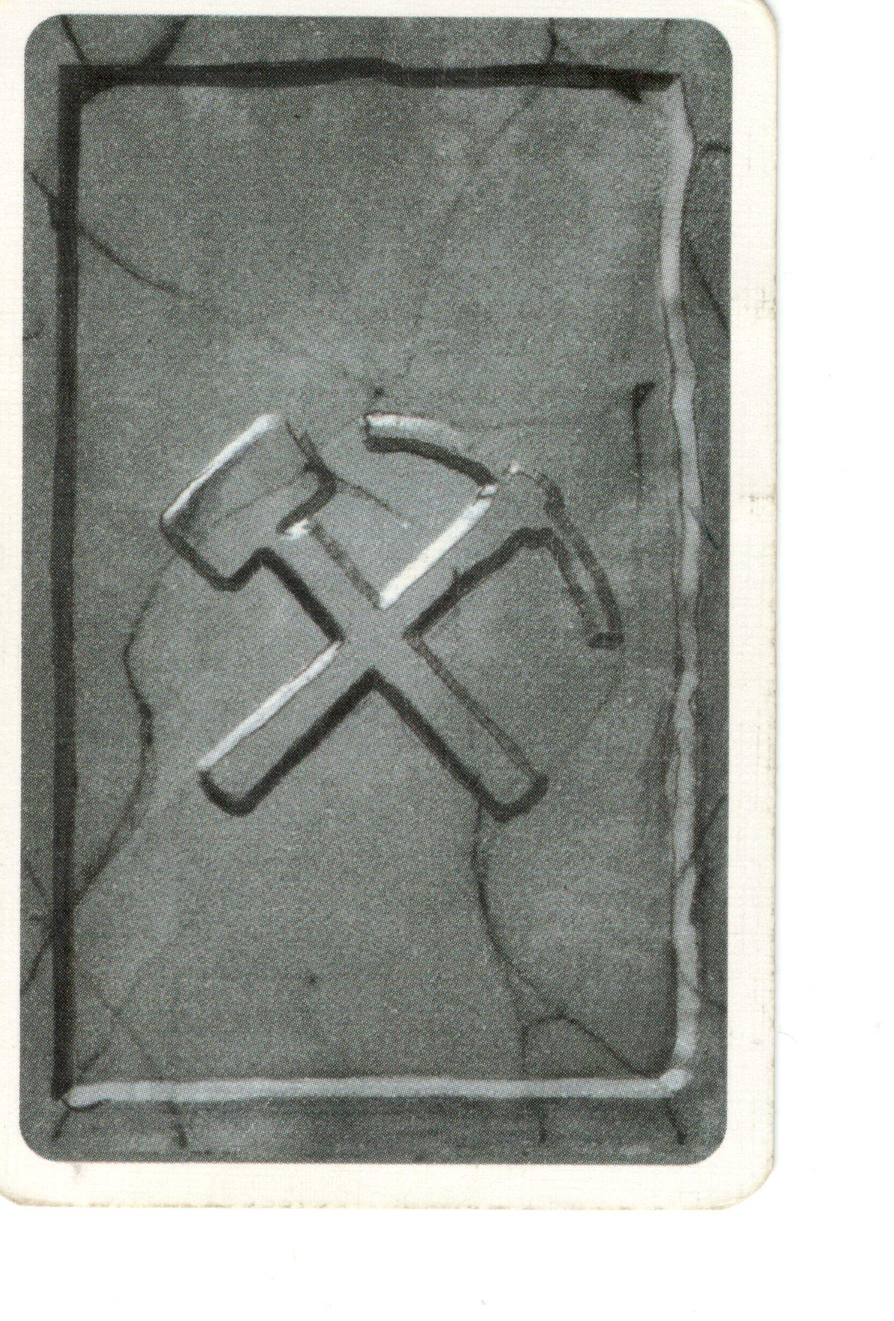
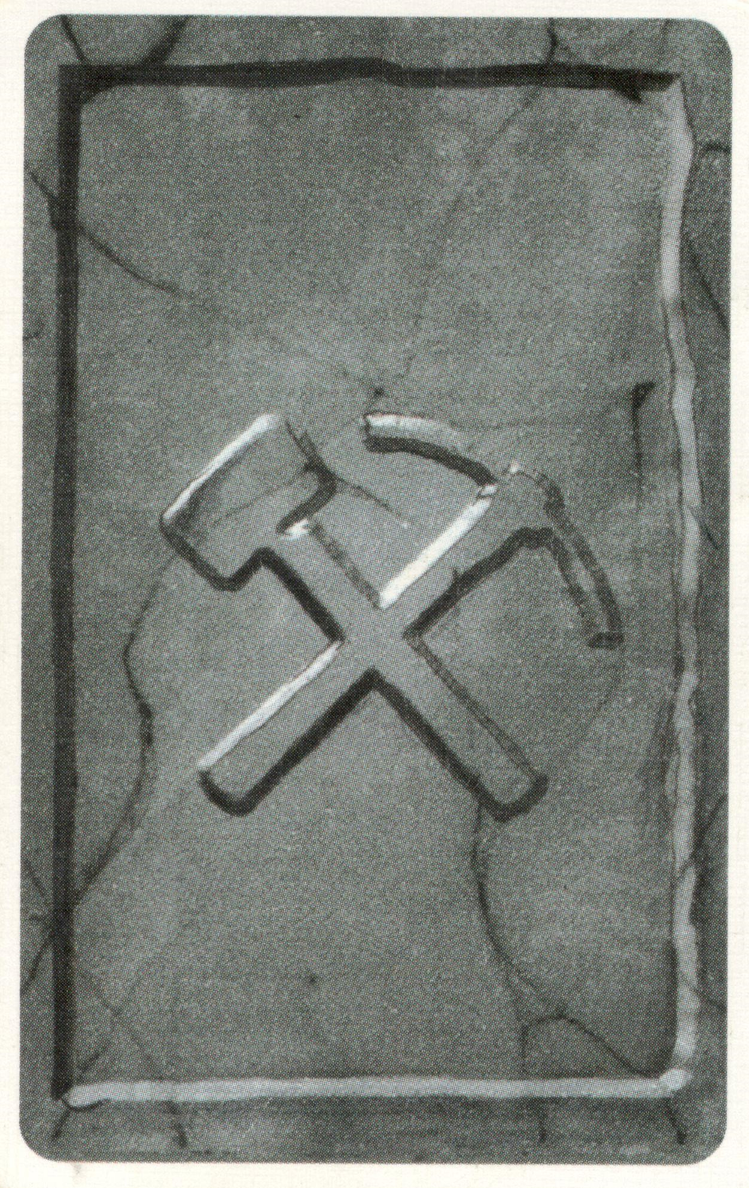
Agggiunte notazioni e ritagliato le immagini

diff --git a/View/Header/screens/gameScreen/Board/board.h b/View/Header/screens/gameScreen/Board/board.h
@@ -8,7 +8,7 @@
 #include "Entities/Header/cvector.h"
 #include "Model/Header/carta/card.h"
 #include "Model/Header/carta/blocco.h"
-
+#include "Model/Header/carta/tunnel.h"
 using std::vector;
 
 namespace view {
@@ -18,19 +18,20 @@ class Board : public QGraphicsItem, public QObject{
     Q_INTERFACES(QGraphicsItem)
 
 private:
-    QSize size; //Grandezza Board
+    /**
+     * @brief dimensione è al grandezza della board, si costruisce con QSize(Width,Height)
+     */
+    QSize dimensione;
     //Ok ora mi serve un vettore per ricordare dove sono le cose
-    vector <unique_ptr<Card>*> baseVector;
+    vector <unique_ptr<Card>*> celle;
     //Sperimentiamo con dei blocchi
-    vector <unique_ptr<Blocco>*> blocchi;
-    //Ci teniamo una carta in memoria quando la selezioniamo
     Card* selezione;
 
     void createBoard();
 
 public:
-    Board (const QSize &size, const vector <unique_ptr<Card>*> &baseVector, const vector <unique_ptr<Blocco>*> &blocco);
-    void paint(QPainter *painter, const QStyleOptionGraphicsItem *option, QWidget *widget) override;
+    Board (const QSize &size, const vector <unique_ptr<Card>*> &cells);
+    virtual void paint(QPainter *painter, const QStyleOptionGraphicsItem *option, QWidget *widget);
     void turn();
 public slots:
 

diff --git a/View/board.cpp b/View/board.cpp
@@ -1,0 +1,45 @@
+#include "View\Header\screens\gameScreen\Board\board.h"
+#include "Model/Header/carta/card.h"
+#include "Model/Header/carta/blocco.h"
+#include "Model/Header/carta/tunnel.h"
+
+#include <QGraphicsScene>
+
+using std::vector;
+
+namespace view {
+
+Board::Board(const QSize &size, const vector <unique_ptr<Card>*> &cells) :
+    dimensione(size),
+    celle(cells){
+
+    createBoard();
+}
+
+void Board::paint(QPainter *painter, const QStyleOptionGraphicsItem *option, QWidget *widget) {
+    Q_UNUSED(option);
+    Q_UNUSED(widget);
+    Q_UNUSED(painter);
+}
+/**
+ * @brief Board::createBoard il mio scopo è di creare un vettore che contenga inizio, i
+ * tre finali e le occasionali carte che piazzero'
+ */
+void Board::createBoard() {
+    int lunghezza = dimensione.width() * dimensione.height();
+    //incominciamo con l'allungare il vector "celle" creato nel .h
+    for (int i = 0; i<=lunghezza; i++){
+       unique_ptr<Card>* carta;
+       if (celle[i]!=NULL){
+           celle.push_back(carta);
+       }
+    }
+}
+/**
+ * @brief Board::tick la logica del tutto è integrata in tick
+ */
+void Board::turn(){
+
+}
+
+}

diff --git a/Controller/controller.cpp b/Controller/controller.cpp
@@ -1,19 +1,20 @@
-#include "Header/controller.h"
+
+#include "Header/controller.h"
 
 controller::Controller::Controller(QObject* parent): QObject(parent){
     //costruire controller
-    MainW = new MainWindow();
+    //MainW = new MainWindow();
 
     /*
      * -Vecchio modo connessione segnali, funziona ma se possibile da evitare
      * connect(MainW, SIGNAL(OpenSettingsRequest()), this, SLOT(openSettings()));
      * -nuova modalità connessione qt5, consigliata*/
-    connect(MainW, &MainWindow::OpenSettingsRequest, this, &Controller::openSettings);
+    //connect(MainW, &MainWindow::OpenSettingsRequest, this, &Controller::openSettings);
 }
 
-void controller::Controller::ShowMainWindow() const {MainW->show();}
+//void controller::Controller::ShowMainWindow() const {MainW->show();}
 
 
-void controller::Controller::openSettings(){
-    emit MainW->OpenSettingsWindow();
-}
+//void controller::Controller::openSettings(){
+    //emit MainW->OpenSettingsWindow();
+//}

diff --git a/View/Header/screens/gameScreen/gameScene.h b/View/Header/screens/gameScreen/gameScene.h
@@ -3,26 +3,33 @@
 
 #include <QGraphicsScene>
 #include <vector>
+
 #include "Model/Header/game.h"
 #include "View\Header\screens\gameScreen\Board\board.h"
 #include "View\Header\screens\gameScreen\mano.h"
+#include "Model\Header\game.h"
 
 namespace view {
 
 class GameScene : public QGraphicsScene {
   Q_OBJECT
 private:
+    const model::Game gioco;
+    /**
+     * @brief board oggetto principale
+     */
     Board* board;
+    /**
+     * @brief mano non troppo dissimile dalla board
+     */
     Mano* mano;
-    //InfoBox* stuff;
-    //IconButton* pauseButton;
     vector <unique_ptr<Card>*> baseVector;
 
 public:
     /**
      * @brief costruttore, niente di speciale
      */
-    GameScene();
+    GameScene(const model::Game& game);
 
 public slots:
     /**

diff --git a/View/Header/screens/gameScreen/Board/casella.h b/View/Header/screens/gameScreen/Board/casella.h
@@ -1,0 +1,26 @@
+#ifndef CASELLA_H_
+#define CASELLA_H_
+
+#include <QGraphicsItem>
+#include "Entities/Header/unique_ptr.h"
+#include "Entities/Header/cvector.h"
+#include "Model/Header/carta/card.h"
+
+namespace view {
+
+enum class TipoCasella {
+Incrocio,
+
+};
+
+class Casella : public QObject, public QGraphicsItem {
+    Q_OBJECT
+    Q_INTERFACES(QGraphicsItem)
+
+private:
+    tip
+}
+
+}
+#endif
+

diff --git a/Model/Header/carta/obstruction.h b/Model/Header/carta/obstruction.h
@@ -26,7 +26,7 @@ public:
 
     /*~Tunnel();
 
-    /**
+    / **
      * @brief operator = :operatore di assegnazione, usa metodo clone
      * @param t : carta tunnel passata per riferimento
      * @return : ritorna un riferimento a Tunnel

diff --git a/Model/Header/game.h b/Model/Header/game.h
@@ -5,9 +5,6 @@ namespace model {
 
 class Game {
 private:
-    /*
-     * Ok qui ci va il vettore di puntatori alle singole carte
-     */
     void win();
 public:
     enum State {

diff --git a/Model/carta/tunnel.cpp b/Model/carta/tunnel.cpp
@@ -1,4 +1,4 @@
-#include "Header/tunnel.h"
+#include "Model\Header\carta\tunnel.h"
 
 Tunnel::Tunnel(bool North, bool East, bool South, bool West): Card() {
     arr[0]=North;

diff --git a/Model/carta/blocco.cpp b/Model/carta/blocco.cpp
@@ -1,4 +1,4 @@
-#include "Header/blocco.h"
+#include "Model\Header\carta\blocco.h"
 
 Blocco::Blocco() :type(ObstructionType::blocco){}
 

diff --git a/Model/carta/crollo.cpp b/Model/carta/crollo.cpp
@@ -1,4 +1,4 @@
-#include "Header/crollo.h"
+#include "Model\Header\carta\crollo.h"
 
 Crollo::Crollo() :type(ObstructionType::crollo){}
 

diff --git a/Model/carta/obstruction.cpp b/Model/carta/obstruction.cpp
@@ -1,3 +1,3 @@
-#include "Header/obstruction.h"
+#include "Model\Header\carta\obstruction.h"
 
 Obstruction::Obstruction(){}

diff --git a/Model/carta/clonecards.cpp b/Model/carta/clonecards.cpp
@@ -1,4 +1,4 @@
-#include "Header/clonecards.h"
+#include "Model\Header\carta\clonecards.h"
 
 CloneCards::CloneCards(){}
 
